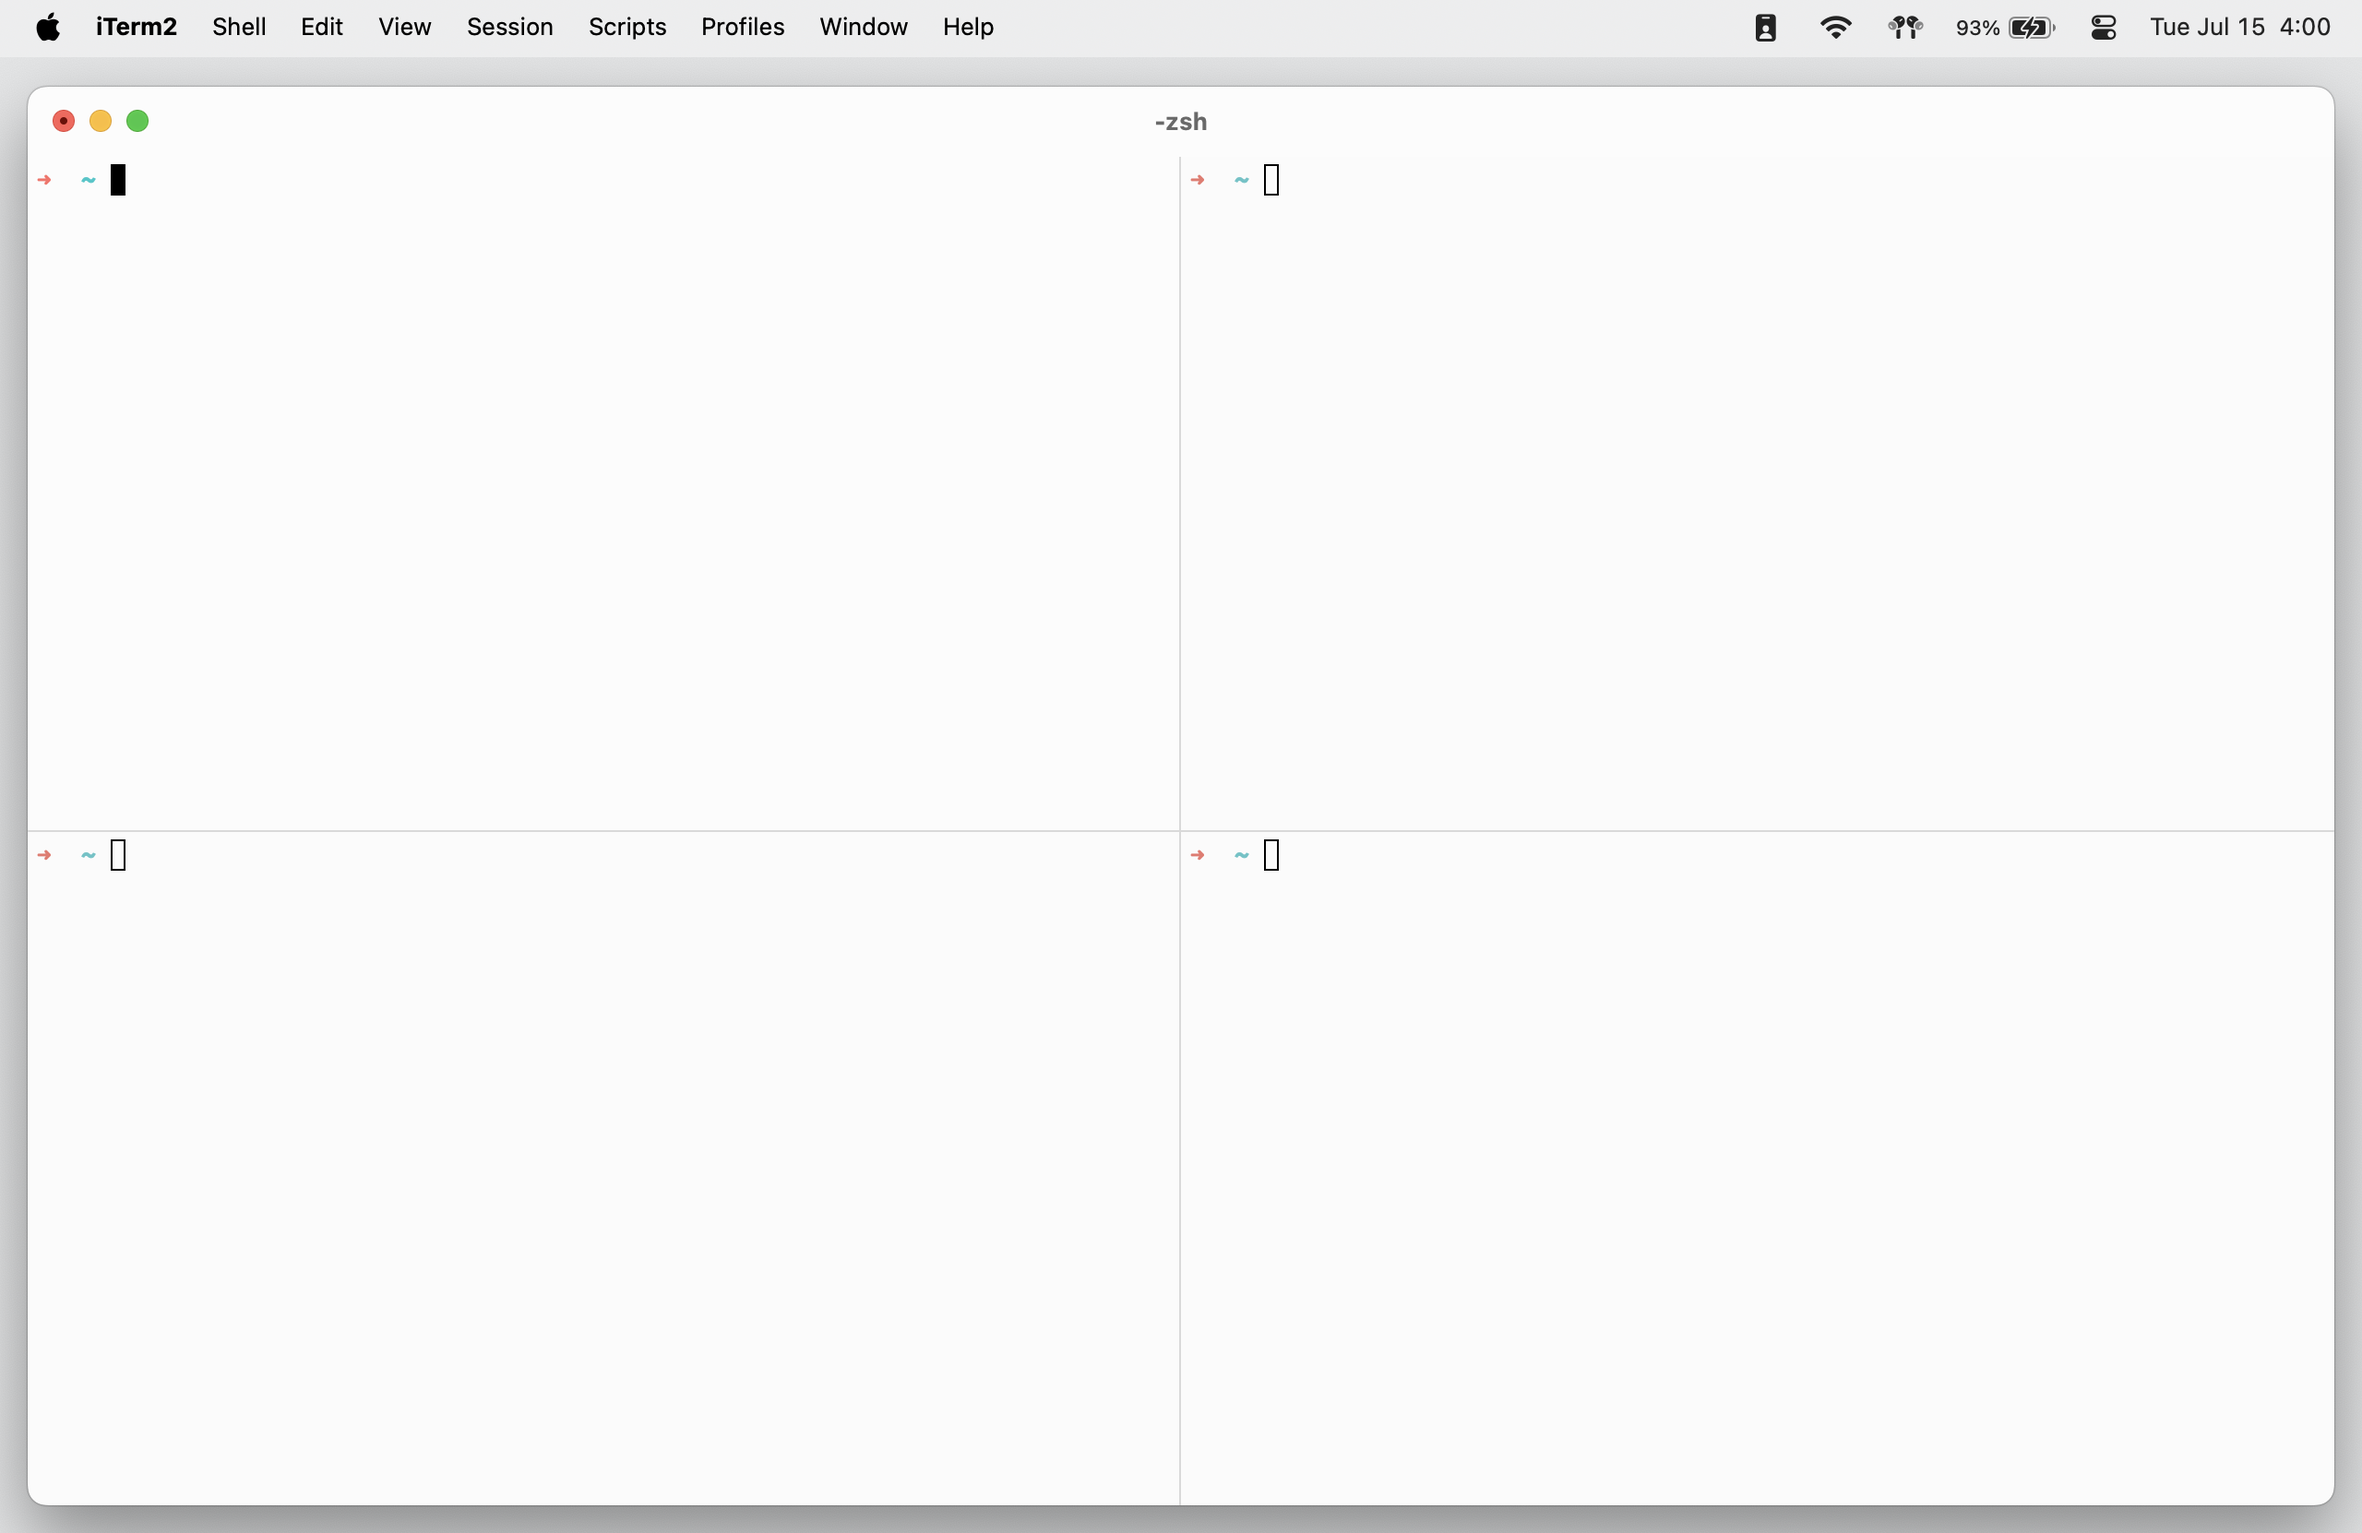
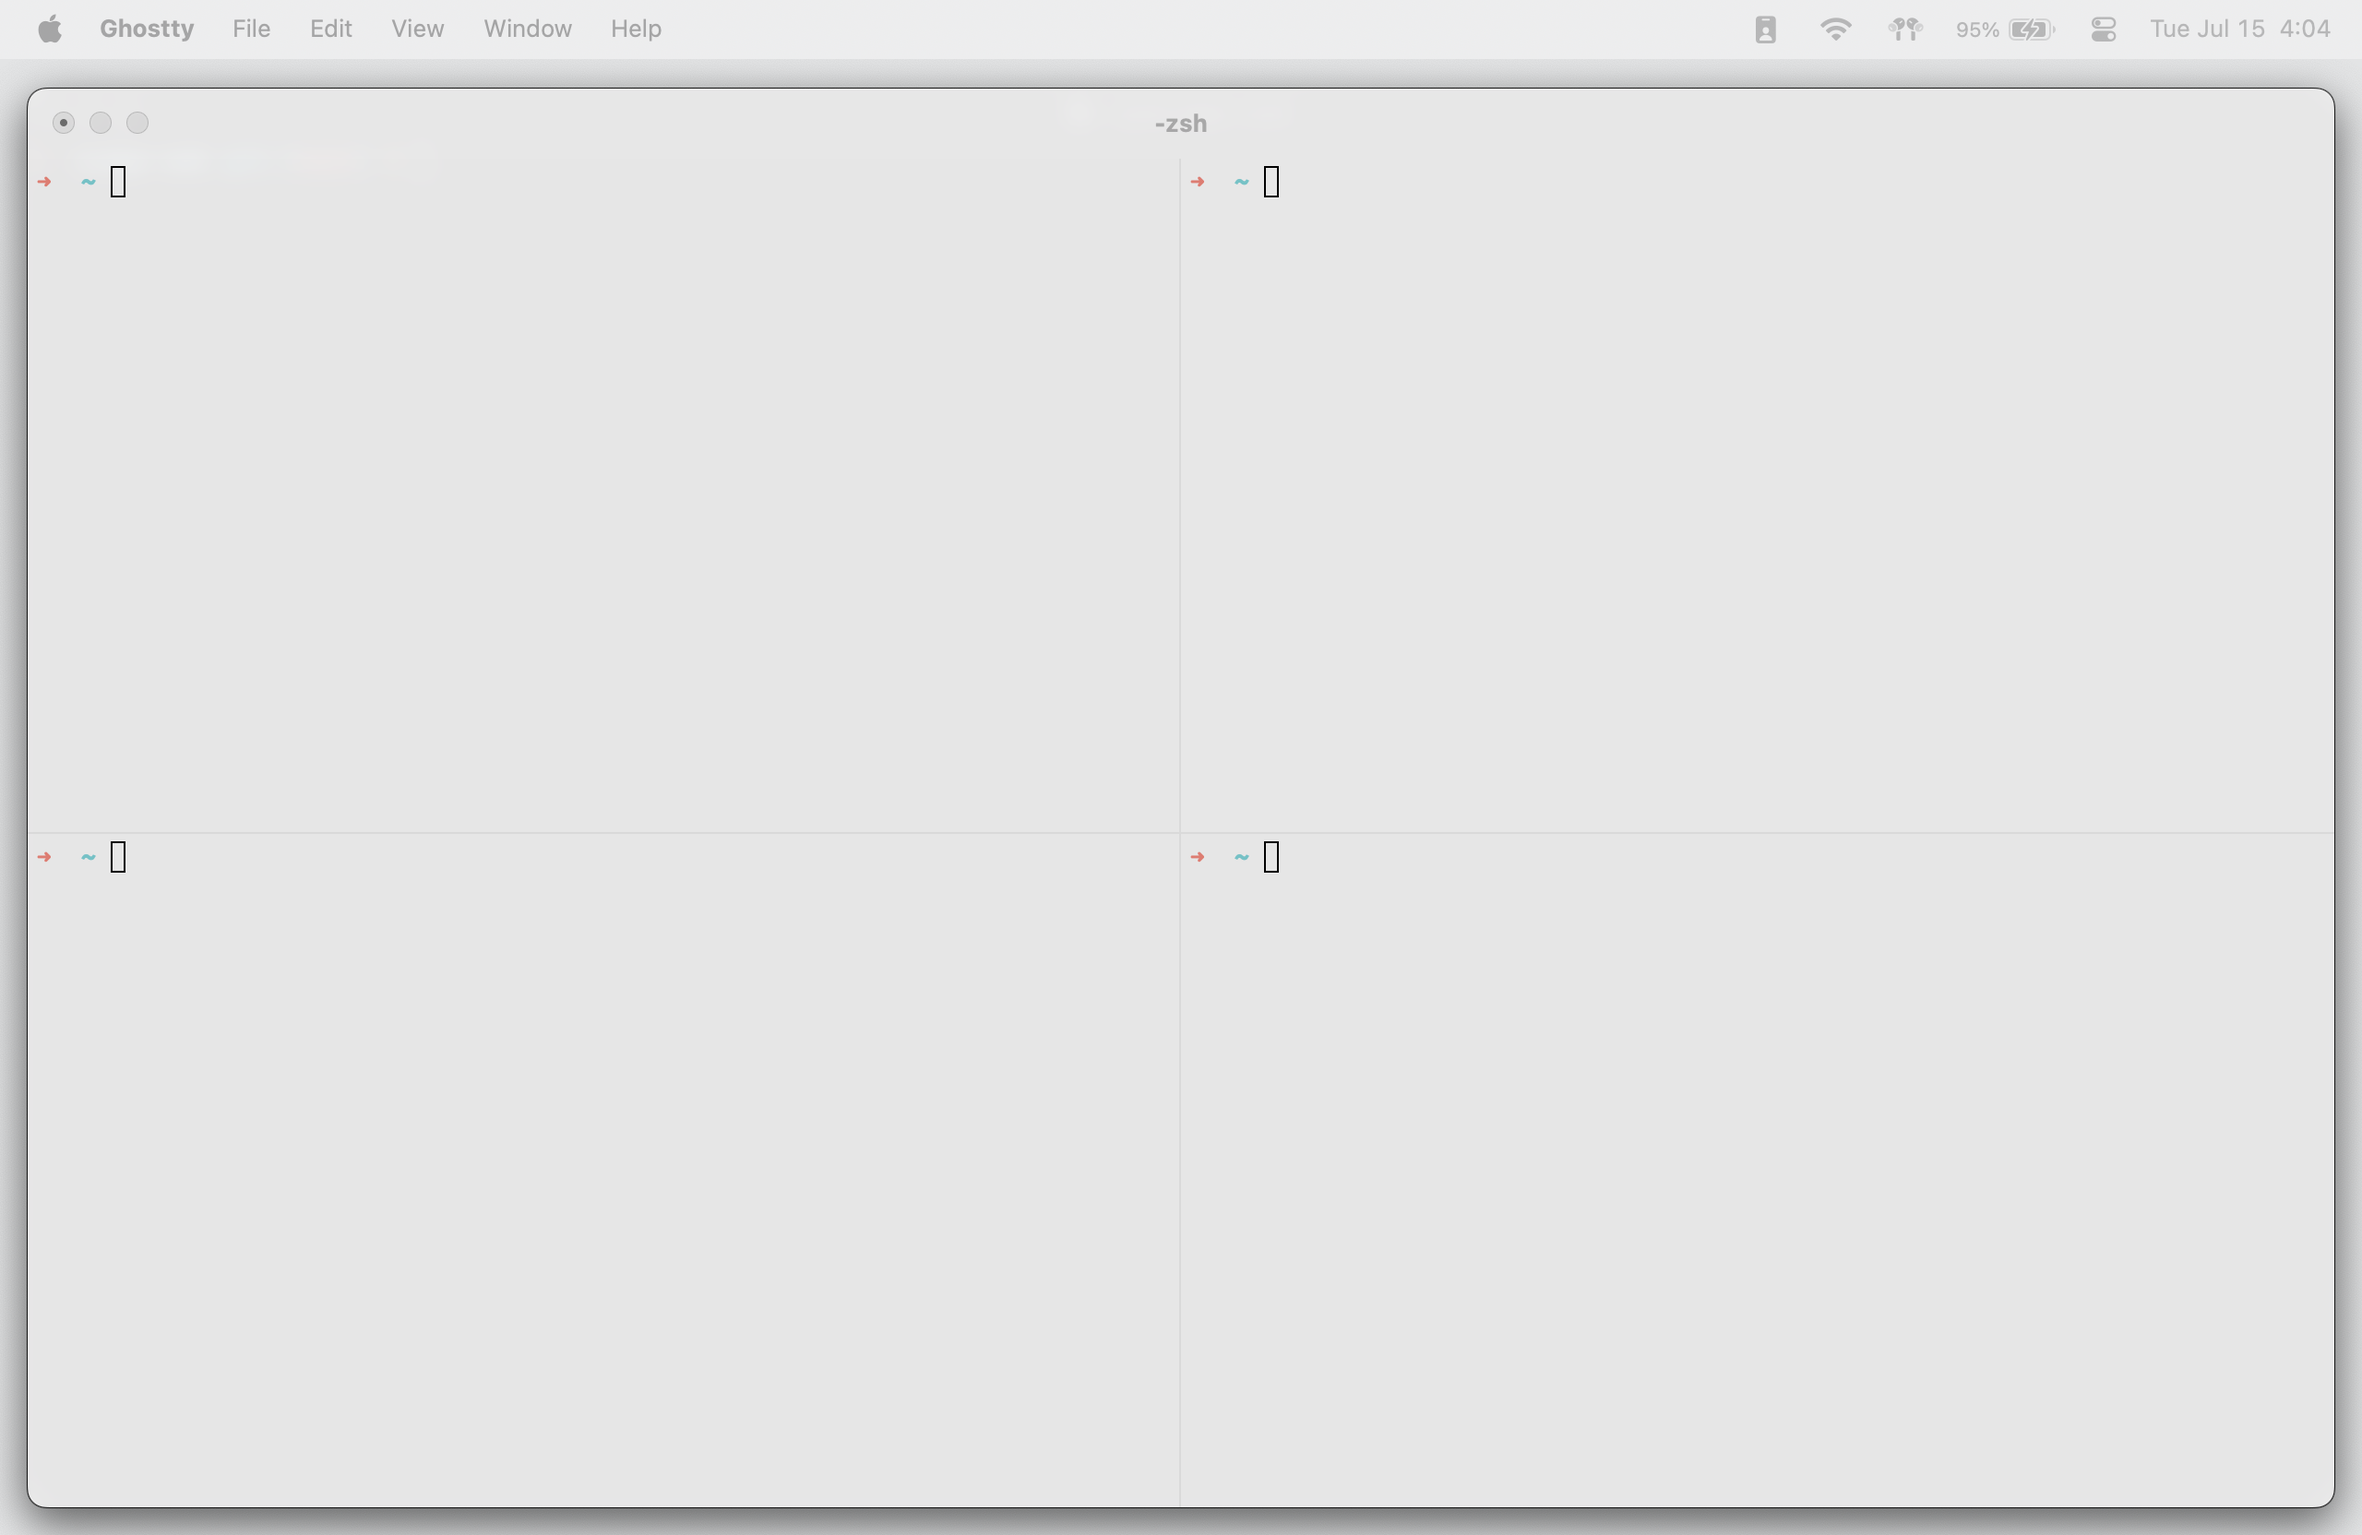
fix: cleaned up evals

diff --git a/src/ai/openai/assess-capture/index.ts b/src/ai/openai/assess-capture/index.ts
@@ -1,6 +1,7 @@
 import { OpenAI } from 'openai'
 import { zodResponseFormat } from 'openai/helpers/zod'
 import { z } from 'zod'
+import chalk from 'chalk'
 import { debug, log, warn } from '../oai-logger'
 import { Result, safeOpenAIStructuredCompletion } from '../utils'
 
@@ -28,8 +29,8 @@ export async function assessFlowWithOpenAI(
     previousCaptures
   )
 
-  debug('[ai/openai/assess-capture] prompt', systemPrompt)
-  log('[ai/openai/assess-capture] calling')
+  debug('[ai/openai/assess-capture] prompt\n', chalk.gray(systemPrompt))
+  debug('[ai/openai/assess-capture] calling')
 
   const start = Date.now()
 
@@ -64,7 +65,7 @@ export async function assessFlowWithOpenAI(
 
   const elapsedMs = Date.now() - start
 
-  log(
+  debug(
     '[ai/openai/assess-capture] elapsedMs',
     `${(elapsedMs / 1000).toFixed(2)}s`
   )
@@ -90,17 +91,18 @@ function makeSystemPrompt(
   previousCaptures: string[]
 ) {
   return `
-You're a productivity buddy that helps the user keep it's promises.
+You're a productivity assistant that notifies the user when they look distracted.
 
 Instructions:
-1. Given a screenshot of the user's screen, provide a summary of what you see.
+1. Given a screenshot of the user's screen, provide a summary of what you see, regardless of the user's intended activity.
 2. Read the user's desired activity and decide if they are doing what they said they'd do.
 3. If not, write a very short (<300 chars) message nudging the user back into flow. Be creative.
-4. DON'T be pedantic, DON'T split hairs, DON'T be annoying.
+4. DON'T be annoying, pedantic or split hairs.
+4.1. Consider that the user may be _starting_ the task at hand.
 
-<USER_DESIRED_ACTIVITY>
+<USER_INTENDED_ACTIVITY>
 ${goal}
-</USER_DESIRED_ACTIVITY>
+</USER_INTENDED_ACTIVITY>
 
 ${
   customInstructions
@@ -110,9 +112,13 @@ ${customInstructions}
     : ''
 }
 
-<PREVIOUS_CAPTURES>
+${
+  previousCaptures.length > 0
+    ? `<PREVIOUS_CAPTURES>
 ${previousCaptures.map((capture) => `- ${capture}`).join('\n')}
-</PREVIOUS_CAPTURES>
+</PREVIOUS_CAPTURES>`
+    : ''
+}
 
 Your response should follow this JSON structure:
 {
@@ -130,4 +136,6 @@ For your screen summary, make sure to touch on:
 * Any other relevant information?
 
 Set goalUnclear to true when the goal is absolutely unclear.`
+    .trim()
+    .replace(/\n\n\n+/g, '\n\n')
 }

diff --git a/src/ai/openai/assess-capture/evals/index.ts b/src/ai/openai/assess-capture/evals/index.ts
@@ -1,6 +1,7 @@
 // ATTENTION very important that these images are never packaged into the app.
 
 import { join } from 'path'
+import * as lodash from 'lodash'
 
 export interface TestCase {
   imageFilepath: string
@@ -20,26 +21,50 @@ export default [
   // CODE
   // CODE
   {
-    imageFilepath: join(__dirname, 'resized/code-iterm2-ghosttyname.png'),
-    goal: 'I want to use my terminal for 20 minutes.',
+    imageFilepath: join(__dirname, 'resized/code-cursor-full.png'),
+    goal: 'I want to code for 20 minutes.',
     customInstructions: null,
     expected: {
       isFollowingGoals: true,
     },
   },
   {
-    imageFilepath: join(__dirname, 'resized/code-terminal-ghostty-2.png'),
+    imageFilepath: join(__dirname, 'resized/code-ghostty-empty.png'),
     goal: 'I want to code for 2 minutes.',
     customInstructions: null,
     expected: {
+      // Some fail modes:
+      // "terminal is open but nothing typed in it" -- AI is being annoying
       isFollowingGoals: true,
     },
   },
   {
-    imageFilepath: join(__dirname, 'resized/code-terminal-ghostty.png'),
+    imageFilepath: join(__dirname, 'resized/code-iterm2-empty.png'),
     goal: 'I want to code for 2 minutes.',
     customInstructions: null,
     expected: {
+      // Some fail modes:
+      // "terminal is open but nothing typed in it" -- AI is being annoying
+      isFollowingGoals: true,
+    },
+  },
+  {
+    imageFilepath: join(__dirname, 'resized/code-ghostty-active-full.png'),
+    goal: 'I want to code for 20 minutes.',
+    customInstructions: null,
+    expected: {
+      // Fail modes:
+      // "user is using terminal instead of coding" -- AI is being annoying
+      isFollowingGoals: true,
+    },
+  },
+  {
+    imageFilepath: join(__dirname, 'resized/code-ghostty-BIASED.png'),
+    goal: 'I want to code for 2 minutes.',
+    customInstructions: null,
+    expected: {
+      // Fail modes:
+      // "user is seeing July 2025 calendar " -- prompt engineering with string in the terminal
       isFollowingGoals: true,
     },
   },

diff --git a/src/ai/openai/assess-capture/index.eval.ts b/src/ai/openai/assess-capture/index.eval.ts
@@ -97,18 +97,23 @@ export async function runSingleExample(
       error = `Expected isFollowingGoals to be ${testCase.expected.isFollowingGoals}, but got ${assessment.isFollowingGoals}`
     }
 
+    const coloring = passed ? chalk.green : chalk.red
+
     // Log the assessment details for debugging
     const status = passed ? '✅ PASS' : '❌ FAIL'
-    log(
-      `[eval] ${status} Assessment for ${path.basename(
-        testCase.imageFilepath
-      )}:`
+
+    console.log(
+      coloring(
+        `[eval] ${status} Assessment for ${path.basename(
+          testCase.imageFilepath
+        )}:`
+      )
     )
-    log(`  Goal: ${testCase.goal}`)
-    log(`  Screen Summary: ${chalk.red(assessment.screenSummary)}`)
-    log(`  Is Following Goals: ${assessment.isFollowingGoals}`)
-    log(`  Message to User: ${assessment.messageToUser}`)
-    log(`  Response Time: ${responseTime}ms`)
+    console.log(`- Input: ${testCase.goal}`)
+    console.log(`- Screen summary: ${coloring(assessment.screenSummary)}`)
+    console.log(`- Following Goal?: ${assessment.isFollowingGoals}`)
+    // log(`  Message to User: ${assessment.messageToUser}`)
+    // log(`  Response Time: ${responseTime}ms`)
 
     if (!passed) {
       console.log(
@@ -204,8 +209,6 @@ export async function runDetailedEval(client: OpenAI): Promise<void> {
       } else {
         console.log(`   Actual isFollowingGoals: ${actualValue}`)
       }
-      console.log(`   Screen Summary: ${result.result.data.screenSummary}`)
-      console.log(`   Message to User: ${result.result.data.messageToUser}`)
     } else {
       console.log(
         `   \x1b[31mError: ${result.result.error}${
@@ -241,5 +244,7 @@ const EVALS_OPENAI_API_KEY = process.env.EVALS_OPENAI_API_KEY || ''
 if (!EVALS_OPENAI_API_KEY) {
   throw new Error('EVALS_OPENAI_API_KEY is not set')
 }
+
 const client = new OpenAI({ apiKey: EVALS_OPENAI_API_KEY })
+
 void runDetailedEval(client)
